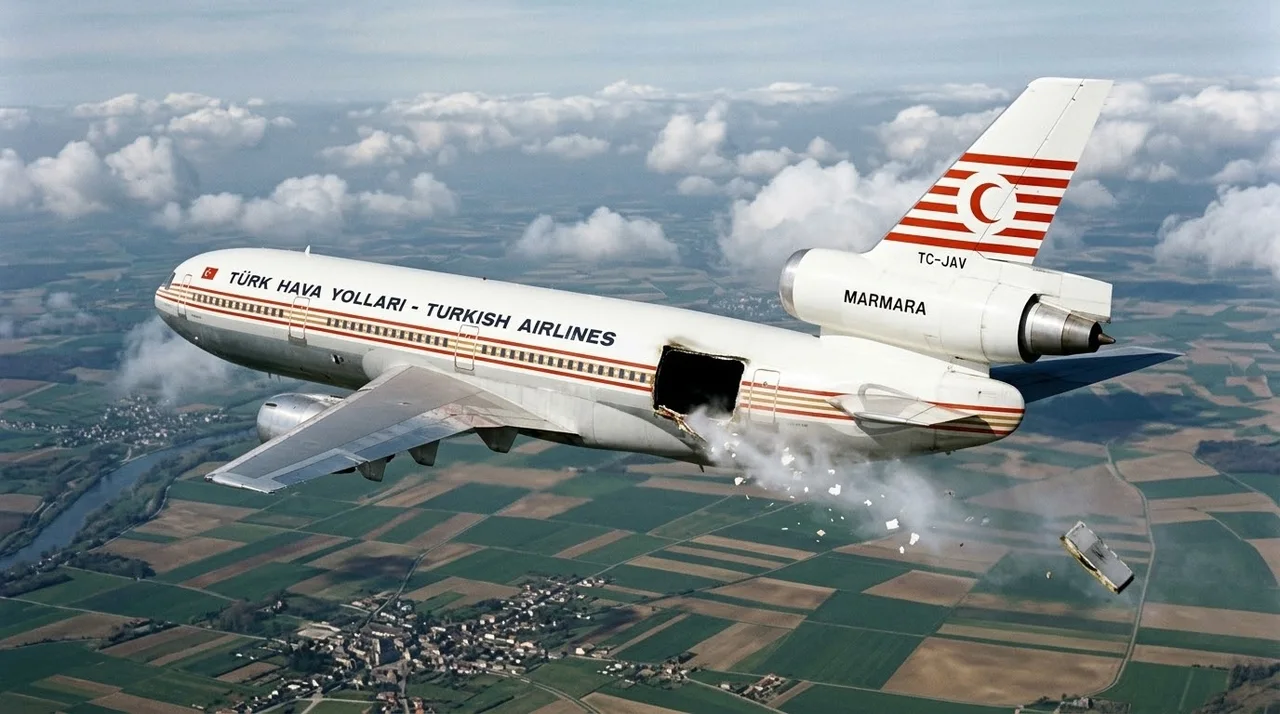
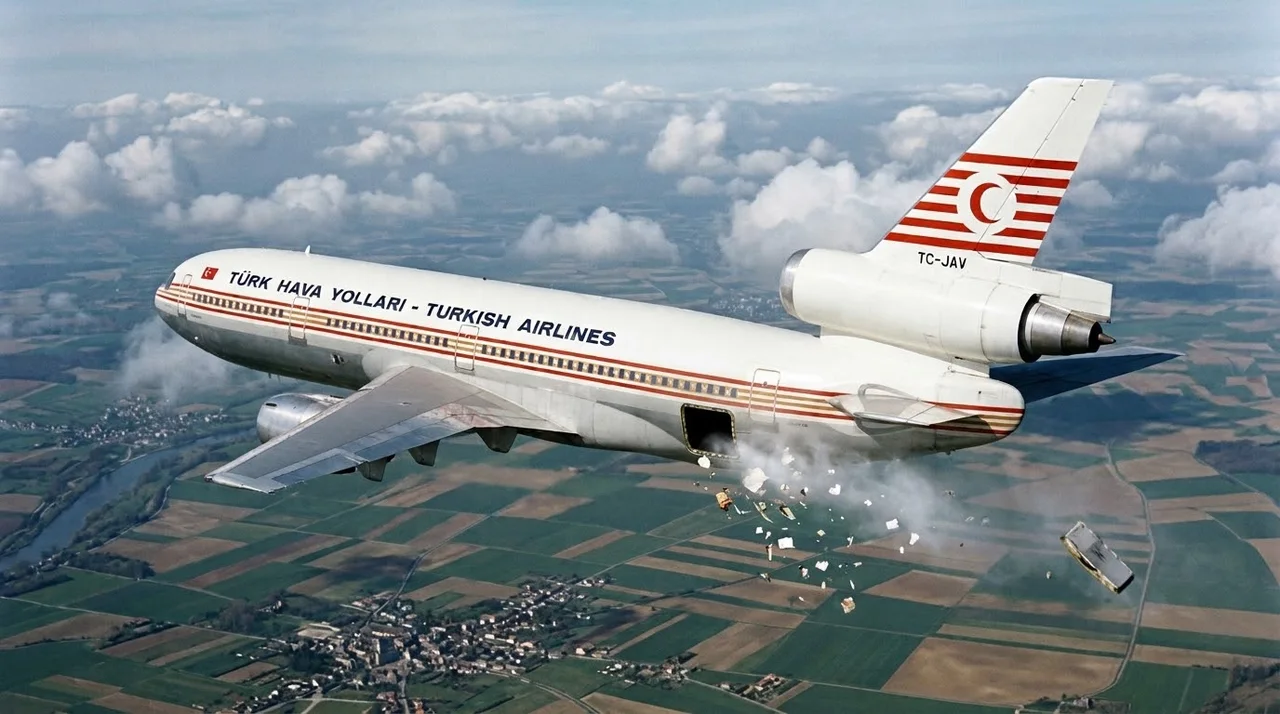
Hangar Escola: nova foto da porta arrancada no capítulo 5 do Turkish 981
Claude-Session: https://claude.ai/code/session_01PxKViBYL6qRqF4hkoHqSJb

diff --git a/aviao/sw.js b/aviao/sw.js
@@ -1,7 +1,7 @@
 /* Service worker: o app abre e funciona offline. */
-const CACHE = 'hangar-escola-v177';
+const CACHE = 'hangar-escola-v178';
 // Os arquivos levam "?v=" no index.html: ao mudar a versão, o celular nunca mistura CSS/JS antigo com HTML novo.
-const FILES = ['./', 'index.html', 'style.css?v=177', 'avioes.js?v=177', 'catalogo747.js?v=177', 'cockpit747.js?v=177', 'motor3d.js?v=177', 'motor747.js?v=177', 'meteo.js?v=177', 'radio.js?v=177', 'historia.js?v=177', 'desastres.js?v=177', 'app.js?v=177', 'icon.svg', 'apple-touch-icon.png', 'icon-192.png', 'icon-512.png', 'manifest.webmanifest', 'assets/747-lateral.jpg', 'assets/747-frontal.jpg', 'assets/747-motor.jpg', 'assets/747-superior.png', 'assets/747-lado.webp', 'assets/747-lado-prof.webp', 'assets/747-tras.webp', 'assets/747-tras-trem.webp', 'assets/bank-angle.mp3', 'assets/v1.mp3', 'assets/nuvem-cb.webp', 'assets/nuvem-cu.webp', 'assets/nuvem-ci.webp', 'assets/nuvem-cc.webp', 'assets/nuvem-cs.webp', 'assets/nuvem-ac.webp', 'assets/nuvem-as.webp', 'assets/nuvem-ns.webp', 'assets/nuvem-sc.webp', 'assets/nuvem-st.webp', 'assets/nuvens-atlas.webp', 'assets/historia-1881.webp', 'assets/historia-vevey.webp', 'assets/historia-serraria.webp', 'assets/historia-dominguez.webp', 'assets/historia-curtiss.webp', 'assets/jal123-mapa.webp', 'assets/jal123-haneda.webp', 'assets/jal123-decolagem.webp', 'assets/jal123-cauda.webp', 'assets/jal123-cabine.webp', 'assets/jal123-hidraulico.webp', 'assets/jal123-manetes.webp', 'assets/jal123-montanhas.webp', 'assets/jal123-bilhete.webp', 'assets/jal123-c130.webp', 'assets/jal123-deriva.webp', 'assets/af447-mapa.webp', 'assets/af447-galeao.webp', 'assets/af447-decolagem.webp', 'assets/af447-lua.webp', 'assets/af447-tempestade.webp', 'assets/af447-painel.webp', 'assets/cauda-af.webp', 'assets/cauda-jal.webp', 'assets/cauda-mh.webp', 'assets/cauda-gol.webp', 'assets/cauda-tk.webp', 'assets/tk981-mapa.webp', 'assets/tk981-orly.webp', 'assets/tk981-dc10.webp', 'assets/tk981-porta.webp', 'assets/gol1907-mapa.webp', 'assets/gol1907-legacy-sjc.webp', 'assets/gol1907-737.webp', 'assets/gol1907-legacy-voo.webp', 'assets/gol1907-cabine-legacy.webp', 'assets/gol1907-acc.webp', 'assets/gol1907-choque.webp', 'assets/gol1907-queda.webp', 'assets/gol1907-legacy-dano.webp', 'assets/gol1907-painel.webp', 'assets/gol1907-mata.webp', 'assets/gol1907-relatorio.webp', 'assets/gol1907-apagao.webp', 'assets/gol1907-justica.webp', 'assets/gol1907-destrocos.webp', 'assets/gol1907-rumo.webp', 'assets/gol1907-falha.webp', 'assets/gol1907-tcas.webp', 'assets/gol1907-controle.webp', 'assets/af447-pitot.webp', 'assets/af447-pitot-gelo.webp', 'assets/af447-manches.webp', 'assets/af447-estol.webp', 'assets/af447-cabine.webp', 'assets/af447-queda.webp', 'assets/af447-deriva.webp', 'assets/af447-painel-voos.webp', 'assets/af447-fundo.webp', 'assets/af447-relatorio.webp', 'assets/af447-sondas.webp', 'assets/af447-tribunal.webp', 'assets/af447-estol-diagrama.webp', 'assets/mh370-mapa.webp', 'assets/mh370-klia.webp', 'assets/mh370-decolagem.webp', 'assets/mh370-cinto.webp', 'assets/mh370-radar.webp', 'assets/mh370-peninsula.webp', 'assets/mh370-oceano.webp', 'assets/mh370-ultimo-eco.webp', 'assets/mh370-satelite.webp', 'assets/mh370-busca.webp', 'assets/mh370-bluefin.webp', 'assets/mh370-deriva.webp'];
+const FILES = ['./', 'index.html', 'style.css?v=178', 'avioes.js?v=178', 'catalogo747.js?v=178', 'cockpit747.js?v=178', 'motor3d.js?v=178', 'motor747.js?v=178', 'meteo.js?v=178', 'radio.js?v=178', 'historia.js?v=178', 'desastres.js?v=178', 'app.js?v=178', 'icon.svg', 'apple-touch-icon.png', 'icon-192.png', 'icon-512.png', 'manifest.webmanifest', 'assets/747-lateral.jpg', 'assets/747-frontal.jpg', 'assets/747-motor.jpg', 'assets/747-superior.png', 'assets/747-lado.webp', 'assets/747-lado-prof.webp', 'assets/747-tras.webp', 'assets/747-tras-trem.webp', 'assets/bank-angle.mp3', 'assets/v1.mp3', 'assets/nuvem-cb.webp', 'assets/nuvem-cu.webp', 'assets/nuvem-ci.webp', 'assets/nuvem-cc.webp', 'assets/nuvem-cs.webp', 'assets/nuvem-ac.webp', 'assets/nuvem-as.webp', 'assets/nuvem-ns.webp', 'assets/nuvem-sc.webp', 'assets/nuvem-st.webp', 'assets/nuvens-atlas.webp', 'assets/historia-1881.webp', 'assets/historia-vevey.webp', 'assets/historia-serraria.webp', 'assets/historia-dominguez.webp', 'assets/historia-curtiss.webp', 'assets/jal123-mapa.webp', 'assets/jal123-haneda.webp', 'assets/jal123-decolagem.webp', 'assets/jal123-cauda.webp', 'assets/jal123-cabine.webp', 'assets/jal123-hidraulico.webp', 'assets/jal123-manetes.webp', 'assets/jal123-montanhas.webp', 'assets/jal123-bilhete.webp', 'assets/jal123-c130.webp', 'assets/jal123-deriva.webp', 'assets/af447-mapa.webp', 'assets/af447-galeao.webp', 'assets/af447-decolagem.webp', 'assets/af447-lua.webp', 'assets/af447-tempestade.webp', 'assets/af447-painel.webp', 'assets/cauda-af.webp', 'assets/cauda-jal.webp', 'assets/cauda-mh.webp', 'assets/cauda-gol.webp', 'assets/cauda-tk.webp', 'assets/tk981-mapa.webp', 'assets/tk981-orly.webp', 'assets/tk981-dc10.webp', 'assets/tk981-porta.webp', 'assets/gol1907-mapa.webp', 'assets/gol1907-legacy-sjc.webp', 'assets/gol1907-737.webp', 'assets/gol1907-legacy-voo.webp', 'assets/gol1907-cabine-legacy.webp', 'assets/gol1907-acc.webp', 'assets/gol1907-choque.webp', 'assets/gol1907-queda.webp', 'assets/gol1907-legacy-dano.webp', 'assets/gol1907-painel.webp', 'assets/gol1907-mata.webp', 'assets/gol1907-relatorio.webp', 'assets/gol1907-apagao.webp', 'assets/gol1907-justica.webp', 'assets/gol1907-destrocos.webp', 'assets/gol1907-rumo.webp', 'assets/gol1907-falha.webp', 'assets/gol1907-tcas.webp', 'assets/gol1907-controle.webp', 'assets/af447-pitot.webp', 'assets/af447-pitot-gelo.webp', 'assets/af447-manches.webp', 'assets/af447-estol.webp', 'assets/af447-cabine.webp', 'assets/af447-queda.webp', 'assets/af447-deriva.webp', 'assets/af447-painel-voos.webp', 'assets/af447-fundo.webp', 'assets/af447-relatorio.webp', 'assets/af447-sondas.webp', 'assets/af447-tribunal.webp', 'assets/af447-estol-diagrama.webp', 'assets/mh370-mapa.webp', 'assets/mh370-klia.webp', 'assets/mh370-decolagem.webp', 'assets/mh370-cinto.webp', 'assets/mh370-radar.webp', 'assets/mh370-peninsula.webp', 'assets/mh370-oceano.webp', 'assets/mh370-ultimo-eco.webp', 'assets/mh370-satelite.webp', 'assets/mh370-busca.webp', 'assets/mh370-bluefin.webp', 'assets/mh370-deriva.webp'];
 
 self.addEventListener('install', (e) => {
   e.waitUntil(caches.open(CACHE).then((c) => c.addAll(FILES)).then(() => self.skipWaiting()));

diff --git a/aviao/desastres.js b/aviao/desastres.js
@@ -908,7 +908,7 @@ const ACIDENTES = [
     p: ["Antes da partida, um funcionário de terra de Orly fechou a porta do porão traseiro. Ele acionou o motor que movia os ganchos e depois baixou a alavanca externa que devia travar tudo.", "Havia um problema escondido. No DC-10, se os ganchos não girassem até o fim, ainda era possível baixar a alavanca à força. A alavanca ficava na posição certa, o aviso de porta aberta na cabine se apagava, mas os ganchos não estavam presos.", "Havia um pequeno visor na porta para conferir se os pinos estavam no lugar, e um aviso com instruções. O funcionário, porém, não tinha sido treinado para olhar o visor, e as instruções estavam escritas em inglês e turco, línguas que ele não lia.", "Ninguém da tripulação conferiu a porta. Na cabine, a luz de aviso estava apagada. Para todos, a porta estava fechada."] },
   { t: "Rumo a Londres", parte: 0, hora: "12:30", lugar: "Pista de Orly", sabia: "Cinco dias depois do acidente, em 8 de março de 1974, foi inaugurado o aeroporto Charles de Gaulle, perto de onde o avião caiu.", cena: CENAS.decolaOrly,
     p: ["Às 12:30, o DC-10 decolou de Orly. Subiu na direção leste, sobre o subúrbio de Paris, para depois fazer uma curva para o norte, rumo ao Canal da Mancha e a Londres.", "A subida era tranquila. Os passageiros soltavam os cintos de leve, olhavam as fazendas e cidadezinhas lá embaixo, conversavam sobre o fim de semana. Os comissários se preparavam para o serviço de bordo.", "A cada segundo de subida, a diferença entre a pressão de dentro e a de fora do avião aumentava. A porta traseira, segura apenas pela posição da alavanca, recebia cada vez mais força empurrando para fora.", "Ela aguentou dez minutos."] },
-  { t: "12:40: o estrondo", foto: { src: "assets/tk981-porta.webp", legenda: "Recriação do DC-10 logo depois de a porta do porão traseiro ser arrancada, sobre os campos ao norte de Paris (imagem ilustrativa; o nome pintado no avião real era Ankara, não Marmara)", tag: "12:40 · a porta é arrancada" }, parte: 1, hora: "12:40", lugar: "Sobre Meaux, 11.500 pés", sabia: "A descompressão explosiva acontece em menos de um segundo: o ar da cabine sai com tanta força que arrasta tudo o que estiver solto perto da abertura.", cena: CENAS.estouro,
+  { t: "12:40: o estrondo", foto: { src: "assets/tk981-porta.webp", legenda: "Recriação do DC-10 TC-JAV logo depois de a porta do porão traseiro ser arrancada, sobre os campos ao norte de Paris (imagem ilustrativa)", tag: "12:40 · a porta é arrancada" }, parte: 1, hora: "12:40", lugar: "Sobre Meaux, 11.500 pés", sabia: "A descompressão explosiva acontece em menos de um segundo: o ar da cabine sai com tanta força que arrasta tudo o que estiver solto perto da abertura.", cena: CENAS.estouro,
     p: ["Às 12:40, a cerca de 11.500 pés (3.500 metros), perto da cidade de Meaux, os ganchos cederam. A porta do porão traseiro se abriu de uma vez e foi arrancada pelo vento.", "O porão perdeu a pressão em um instante. Mas a cabine, logo acima, continuava pressurizada. A diferença de pressão empurrou o piso da cabine para baixo com uma força enorme, e a parte de trás do piso desabou para dentro do porão.", "Duas fileiras de poltronas, com seis passageiros, foram sugadas para fora pelo buraco. Uma névoa tomou conta da cabine. Na cabine de comando, soou o alarme de pressurização.", "E houve o pior. Embaixo daquele piso passavam os cabos que levavam os comandos dos pilotos até a cauda: profundores, leme e o motor da cauda. Quando o piso desabou, os cabos foram esmagados e rompidos."] },
   { t: "Sem comandos", parte: 1, hora: "12:40", lugar: "Sobre o Valois, ao norte de Paris", sabia: "O gravador de voz da cabine registrou o alarme de pressurização e os pilotos tentando entender o que acontecia. Uma das últimas falas foi a de que a velocidade estava alta demais.", cena: CENAS.piso,
     p: ["No mesmo instante, o nariz do DC-10 baixou. O motor da cauda perdeu o comando e parou de responder. Os profundores, que fazem o avião subir e descer, não obedeciam mais aos manches.", "Os pilotos lutaram com o que restava. Puxavam os manches, mexiam nas manetes dos dois motores das asas. Mas, com os cabos rompidos, quase nada do que faziam chegava à cauda.", "O avião começou a mergulhar e a ganhar velocidade muito rápido. Na cabine de passageiros, a névoa, o vento e o barulho tomavam conta. Muitos provavelmente perceberam que estavam caindo.", "A velocidade passou dos 400 nós, mais de 750 km/h, muito acima do limite para aquela altitude. O chão chegava depressa."] },

diff --git a/aviao/index.html b/aviao/index.html
@@ -17,7 +17,7 @@
   <link rel="preconnect" href="https://fonts.googleapis.com">
   <link rel="preconnect" href="https://fonts.gstatic.com" crossorigin>
   <link href="https://fonts.googleapis.com/css2?family=Barlow+Condensed:wght@500;600;700&family=IBM+Plex+Mono:wght@400;500&family=IBM+Plex+Sans:wght@400;500;600&display=swap" rel="stylesheet">
-  <link rel="stylesheet" href="style.css?v=177">
+  <link rel="stylesheet" href="style.css?v=178">
 </head>
 <body>
   <!-- Intro: o avião decola pela pista iluminada e aparece o nome do app (toque para pular) -->
@@ -989,16 +989,16 @@
       </div>
     </section>
   </aside>
-  <script src="avioes.js?v=177"></script>
-  <script src="catalogo747.js?v=177"></script>
-  <script src="cockpit747.js?v=177"></script>
-  <script src="motor3d.js?v=177"></script>
-  <script src="motor747.js?v=177"></script>
-  <script src="meteo.js?v=177"></script>
-  <script src="radio.js?v=177"></script>
-  <script src="historia.js?v=177"></script>
-  <script src="desastres.js?v=177"></script>
-  <script src="app.js?v=177"></script>
+  <script src="avioes.js?v=178"></script>
+  <script src="catalogo747.js?v=178"></script>
+  <script src="cockpit747.js?v=178"></script>
+  <script src="motor3d.js?v=178"></script>
+  <script src="motor747.js?v=178"></script>
+  <script src="meteo.js?v=178"></script>
+  <script src="radio.js?v=178"></script>
+  <script src="historia.js?v=178"></script>
+  <script src="desastres.js?v=178"></script>
+  <script src="app.js?v=178"></script>
   <script>
     // No APK os arquivos já vêm dentro do app; o service worker é só para o site.
     const nativo = !!(window.Capacitor && window.Capacitor.isNativePlatform && window.Capacitor.isNativePlatform());
